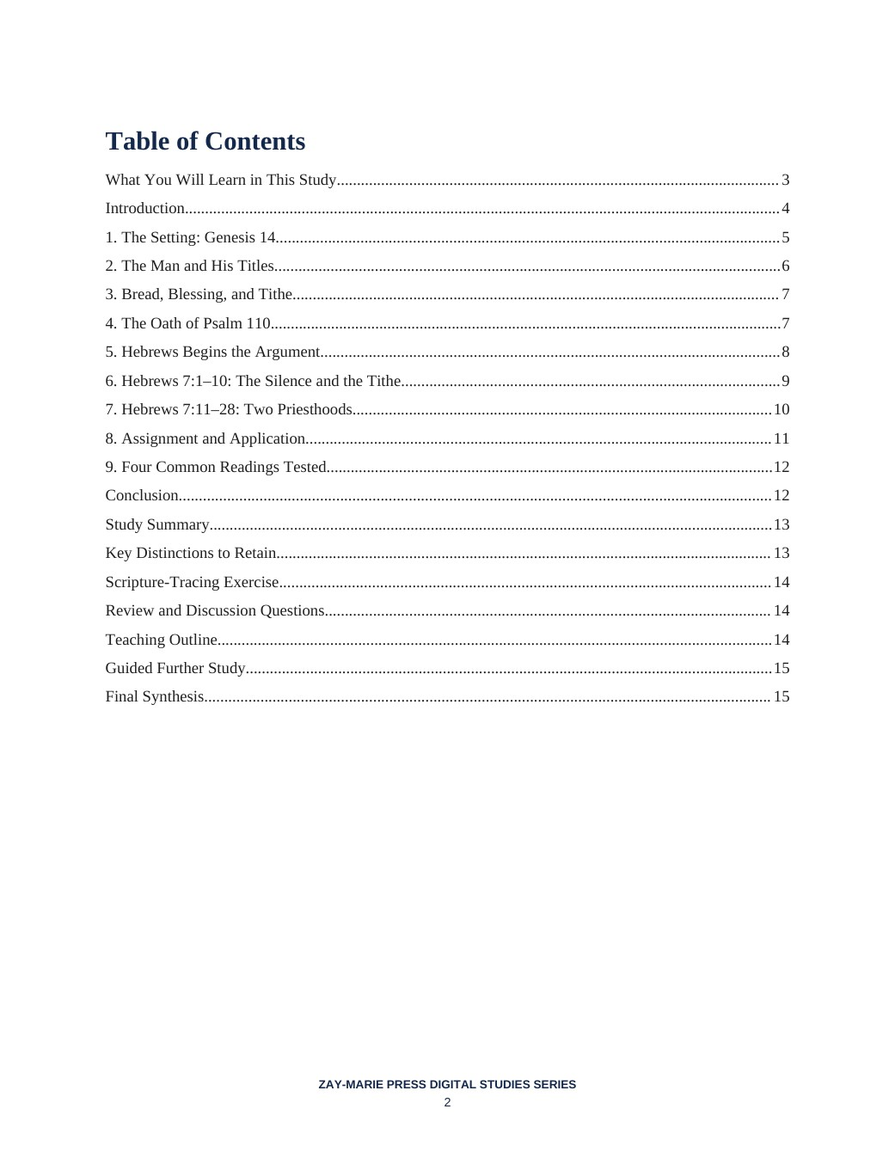
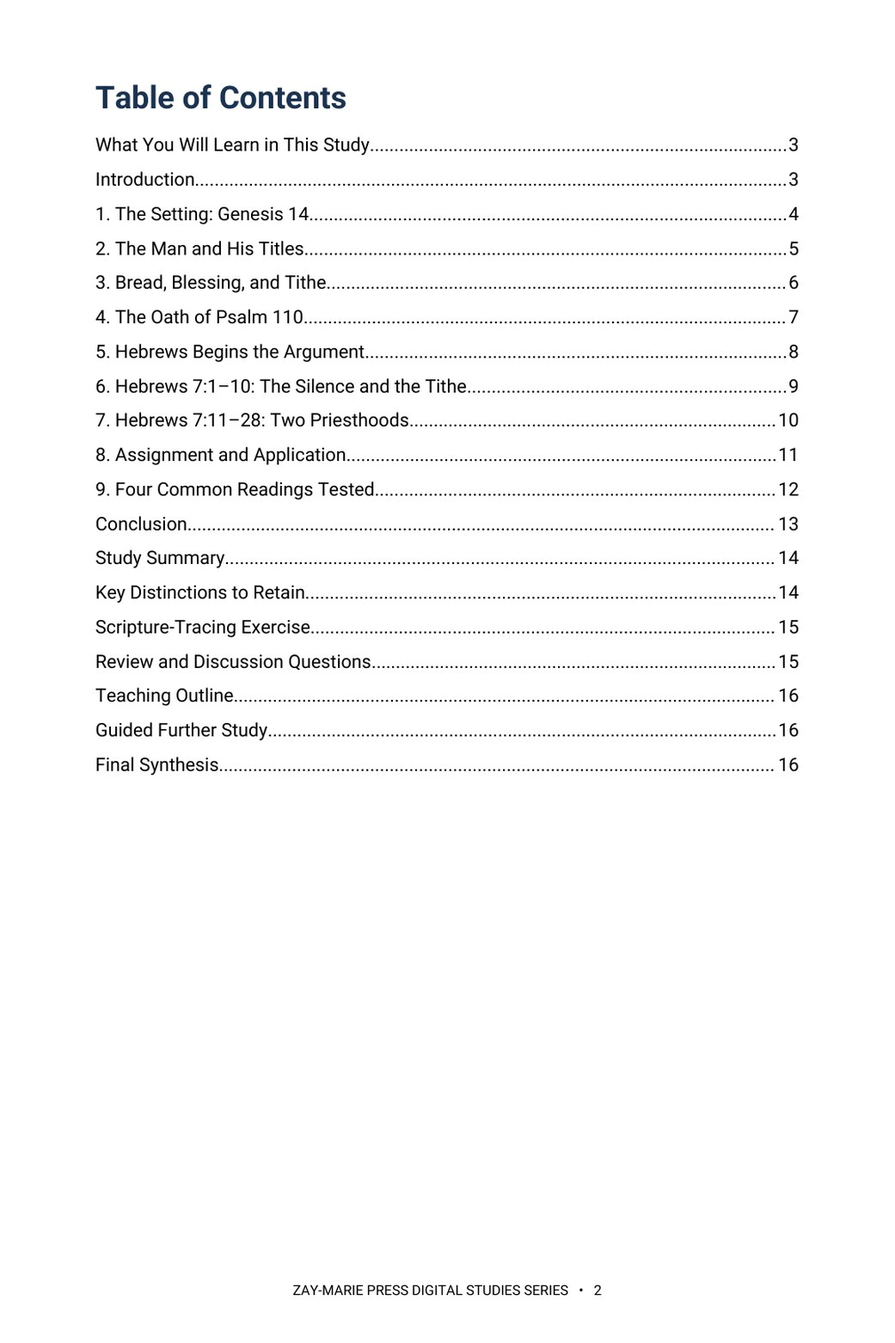
Study 67: rebuilt in Roboto at 10 pt, 17 pages; previews and trackers updated
Claude-Session: https://claude.ai/code/session_01HC7bs9KYP2scp4hCL6DkTp

diff --git a/study-67-melchizedek.html b/study-67-melchizedek.html
@@ -1,13 +1,13 @@
 <!doctype html>
-<html lang="en"><head><meta charset="utf-8"><meta name="viewport" content="width=device-width,initial-scale=1"><title>Melchizedek | Zay-Marie Press</title><meta name="description" content="Study 67 examines Melchizedek in Genesis 14, Psalm 110, and Hebrews 5–7 — who he is in the text, what Hebrews argues from his priesthood, and to whom that argument speaks. Preview the 16-page digital study."><link rel="stylesheet" href="styles.css?v=20260921-4"><link rel="icon" type="image/png" href="assets/zay-marie-press-favicon.png"><style>
+<html lang="en"><head><meta charset="utf-8"><meta name="viewport" content="width=device-width,initial-scale=1"><title>Melchizedek | Zay-Marie Press</title><meta name="description" content="Study 67 examines Melchizedek in Genesis 14, Psalm 110, and Hebrews 5–7 — who he is in the text, what Hebrews argues from his priesthood, and to whom that argument speaks. Preview the 17-page digital study."><link rel="stylesheet" href="styles.css?v=20260921-4"><link rel="icon" type="image/png" href="assets/zay-marie-press-favicon.png"><style>
 .study-detail-page{background:#fff;color:#252525}.detail-hero{background:linear-gradient(135deg,#f8f5ec,#e3ece2);padding:58px 0}.detail-hero-grid{display:grid;grid-template-columns:minmax(250px,.72fr) minmax(0,1.28fr);gap:58px;align-items:center}.detail-cover{max-width:390px;margin:auto}.detail-cover img{display:block;width:100%;height:auto;box-shadow:0 14px 36px rgba(8,45,69,.18)}.detail-hero h1{font-size:clamp(2.7rem,5vw,4.7rem);line-height:1.02;margin:8px 0 10px;color:#143823}.detail-subtitle{font-family:Georgia,serif;font-size:1.35rem;font-weight:700;color:#082d45;margin:0 0 7px}.detail-kicker{font-family:Georgia,serif;font-style:italic;font-size:1.05rem;color:#4a4a44;margin:0 0 22px}.detail-copy{font-size:1.08rem;line-height:1.65;max-width:760px}.detail-buyline{display:flex;align-items:center;gap:18px;flex-wrap:wrap;margin-top:25px}.detail-price{font-family:Georgia,serif;font-size:2rem;font-weight:700;color:#143823}.detail-format,.preview-card .page-no{font-family:Arial,sans-serif;font-size:.76rem;font-weight:700;letter-spacing:.1em;text-transform:uppercase;color:#176b3a}.detail-button{display:inline-block;background:#176b3a;color:#fff;padding:13px 22px;font-family:Arial,sans-serif;font-size:.8rem;font-weight:700;letter-spacing:.07em;text-transform:uppercase}.detail-button.pending{opacity:.72;cursor:default}.detail-section{padding:66px 0}.detail-section.soft{background:#f6f7f2}.detail-section.cream{background:#faf8f2}.detail-section h2{color:#143823;margin:6px 0 18px;font-size:clamp(2rem,3.4vw,3rem)}.detail-section .lead{max-width:920px;font-size:1.1rem;line-height:1.62}.study-distinction{max-width:920px;margin-top:28px;margin-bottom:28px;padding:26px 28px;background:#fff;border:1px solid #d8d1bf;border-left:4px solid #b8871c}.study-distinction h3{margin:0 0 10px;color:#143823}.study-distinction p{margin:0 0 14px;line-height:1.62}.study-distinction a{font-family:Arial,sans-serif;font-weight:700;color:#176b3a;text-decoration:none}.study-points{display:grid;grid-template-columns:repeat(3,1fr);gap:18px;margin-top:28px;margin-bottom:28px}.study-point,.scripture-card,.preview-card,.include-item{background:#fff;border:1px solid var(--line);text-align:left}.study-point{border-top:3px solid #176b3a;padding:22px}.study-point h3{color:#143823;margin:0 0 8px;font-size:1.2rem}.study-point p,.scripture-card p,.preview-card p,.include-item p{margin:0;line-height:1.55}.scripture-grid{display:grid;grid-template-columns:repeat(4,1fr);gap:14px;margin-top:24px;margin-bottom:24px}.scripture-card{padding:22px 20px;color:#143823}.scripture-card h3{margin:0 0 9px;font-family:Georgia,serif;font-size:1rem;line-height:1.35}.scripture-card p{font-size:.94rem;color:#45453f}.excerpt{max-width:900px;margin:28px auto;border-left:4px solid #b8871c;padding:10px 0 10px 28px}.excerpt blockquote{font-family:Georgia,serif;font-size:clamp(1.45rem,2.5vw,2rem);line-height:1.45;color:#143823;margin:0 0 16px}.excerpt p{line-height:1.6;margin:0}.preview-grid{display:grid;grid-template-columns:repeat(2,1fr);gap:20px;margin-top:28px;margin-bottom:28px}.preview-card{padding:18px;min-height:210px;box-shadow:0 7px 20px rgba(20,40,25,.05)}.preview-image-link{display:block;margin:0 0 18px}.preview-image-link img{display:block;width:100%;height:auto;border:1px solid #d8d1bf;box-shadow:0 8px 22px rgba(20,40,25,.1);transition:transform .18s ease,box-shadow .18s ease}.preview-image-link:hover img{transform:translateY(-2px);box-shadow:0 11px 28px rgba(20,40,25,.16)}.preview-card h3{color:#143823;margin:8px 0 10px}.preview-instruction{margin:10px 0 0;font-family:Arial,sans-serif;font-size:.78rem;letter-spacing:.04em;color:#5b5b55}.includes-grid{display:grid;grid-template-columns:repeat(4,1fr);gap:14px;margin-top:26px}.include-item{padding:22px 20px;color:#143823}.include-item h3{margin:0 0 9px;font-family:Arial,sans-serif;font-size:.86rem;line-height:1.35;letter-spacing:.02em}.include-item p{font-size:.94rem;color:#45453f}.final-buy{background:#082d45;color:#fff;border-top:4px solid #b8871c;padding:42px 48px;display:grid;grid-template-columns:1fr auto;gap:36px;align-items:center}.final-buy .eyebrow,.final-buy h2,.final-buy .detail-price{color:#fff}.final-buy h2{margin:7px 0 6px}.final-buy p{margin:0}.final-offer{text-align:center}.back-link{display:inline-block;margin-top:18px;color:#143823;font-family:Arial,sans-serif;font-weight:700;text-decoration:none}.preview-lightbox{position:fixed;inset:0;z-index:10000;display:none;align-items:flex-start;justify-content:center;background:rgba(8,22,16,.88);padding:24px;overflow:auto}.preview-lightbox.open{display:flex}.preview-lightbox img{display:block;width:auto;height:auto;max-width:none;box-shadow:0 18px 55px rgba(0,0,0,.4);background:#fff}.preview-lightbox-close{position:fixed;top:18px;right:24px;z-index:10001;width:46px;height:46px;border:1px solid rgba(255,255,255,.65);border-radius:50%;background:rgba(0,0,0,.55);color:#fff;font:32px/1 Arial,sans-serif;cursor:pointer}@media(max-width:900px){.detail-hero-grid{grid-template-columns:1fr;gap:34px}.detail-cover{max-width:330px}.study-points{grid-template-columns:repeat(2,1fr)}.scripture-grid,.includes-grid{grid-template-columns:repeat(2,1fr)}.preview-grid,.final-buy{grid-template-columns:1fr}.final-offer{text-align:left}}@media(max-width:560px){.detail-hero{padding:42px 0}.detail-section{padding:50px 0}.study-points,.scripture-grid,.includes-grid{grid-template-columns:1fr}.final-buy{padding:32px 24px}.detail-buyline{align-items:flex-start;flex-direction:column;gap:8px}.preview-lightbox{padding:58px 10px 24px}.preview-lightbox img{width:100%;max-width:100%;height:auto}} .detail-hero h1{font-size:clamp(2.1rem,4.2vw,3.7rem);line-height:1.08}</style></head><body class="study-detail-page">
-<header class="site-header"><div class="wrap nav"><a class="logo" href="index.html" aria-label="Zay-Marie Press home"><img src="assets/zay-marie-press-logo-hq.png" alt="Zay-Marie Press" width="420" height="238"></a><button class="menu-toggle" type="button" aria-expanded="false" aria-controls="primary-nav">MENU</button><nav aria-label="Primary navigation" class="primary-nav" id="primary-nav"><a href="index.html">HOME</a><a href="books.html">BOOKS</a><a href="series.html">SERIES</a><a class="active" aria-current="page" href="digital-studies.html">DIGITAL STUDIES</a><a href="biblical-hermeneutics-course.html">COURSE</a><a href="about.html">ABOUT</a><a href="resources.html">RESOURCES</a><a href="contact.html">CONTACT</a></nav></div></header><main><section class="detail-hero"><div class="wrap detail-hero-grid"><div class="detail-cover"><picture><source srcset="assets/study-67-cover.webp" type="image/webp"><img src="assets/study-67-cover.jpg" alt="Melchizedek cover"></picture></div><div><div class="eyebrow">STUDY 67 · DIGITAL STUDY</div><h1>Melchizedek</h1><p class="detail-subtitle">The King-Priest of Salem</p><p class="detail-kicker">Who is Melchizedek in the three passages that name him — and to whom does the priesthood argument of Hebrews speak?</p><p class="detail-copy">Melchizedek is named in only three places in Scripture, yet he has drawn more speculation than almost any figure of comparable length. The way through is to read what each passage says, in order, before deciding what any of it means.</p><p class="detail-copy">This study begins in Genesis 14, with a battle, two kings, and a meeting in the valley of Shaveh. It follows the oath of Psalm 110, then reads Hebrews 5–7 step by step, testing each inference against the passage it reads, and only then asks to whom the argument is addressed, holding to one order throughout: meaning first, assignment second, application third.</p><div class="detail-buyline"><span class="detail-price">$5.99</span><span class="detail-format">Digital PDF · 16 Pages</span><span class="detail-button pending" aria-disabled="true">Checkout Coming Soon</span></div></div></div></section>
+<header class="site-header"><div class="wrap nav"><a class="logo" href="index.html" aria-label="Zay-Marie Press home"><img src="assets/zay-marie-press-logo-hq.png" alt="Zay-Marie Press" width="420" height="238"></a><button class="menu-toggle" type="button" aria-expanded="false" aria-controls="primary-nav">MENU</button><nav aria-label="Primary navigation" class="primary-nav" id="primary-nav"><a href="index.html">HOME</a><a href="books.html">BOOKS</a><a href="series.html">SERIES</a><a class="active" aria-current="page" href="digital-studies.html">DIGITAL STUDIES</a><a href="biblical-hermeneutics-course.html">COURSE</a><a href="about.html">ABOUT</a><a href="resources.html">RESOURCES</a><a href="contact.html">CONTACT</a></nav></div></header><main><section class="detail-hero"><div class="wrap detail-hero-grid"><div class="detail-cover"><picture><source srcset="assets/study-67-cover.webp" type="image/webp"><img src="assets/study-67-cover.jpg" alt="Melchizedek cover"></picture></div><div><div class="eyebrow">STUDY 67 · DIGITAL STUDY</div><h1>Melchizedek</h1><p class="detail-subtitle">The King-Priest of Salem</p><p class="detail-kicker">Who is Melchizedek in the three passages that name him — and to whom does the priesthood argument of Hebrews speak?</p><p class="detail-copy">Melchizedek is named in only three places in Scripture, yet he has drawn more speculation than almost any figure of comparable length. The way through is to read what each passage says, in order, before deciding what any of it means.</p><p class="detail-copy">This study begins in Genesis 14, with a battle, two kings, and a meeting in the valley of Shaveh. It follows the oath of Psalm 110, then reads Hebrews 5–7 step by step, testing each inference against the passage it reads, and only then asks to whom the argument is addressed, holding to one order throughout: meaning first, assignment second, application third.</p><div class="detail-buyline"><span class="detail-price">$5.99</span><span class="detail-format">Digital PDF · 17 Pages</span><span class="detail-button pending" aria-disabled="true">Checkout Coming Soon</span></div></div></div></section>
 <section class="detail-section"><div class="wrap"><div class="eyebrow">ABOUT THIS STUDY</div><h2>Read the Passages in Order: Meaning, Assignment, Application</h2><p class="lead">You will read Genesis 14 in its own setting: after a war and a rescue, with two kings coming out to meet Abram. You will follow the titles, the bread and wine, the blessing, and the tithe as the text gives them, trace the oath of Psalm 110, and then follow the argument of Hebrews 5–7 inference by inference before drawing any application.</p><p class="lead">Readers who already own Study 28 (The Warning of Hebrews 6:4–6), Study 17 (The Abrahamic Covenant), or Study 12 (The New Covenant) will recognize adjoining ground. Study 28 reads the warning of Hebrews 6 in its argument; this study touches Hebrews 6 only where the oath and the forerunner (6:13–20) lead to Melchizedek. Study 17 establishes the covenant promises made to Abraham; this study treats Genesis 14 only for what it says about the king of Salem. Study 12 examines Israel’s promised restoration under Messiah; this study notes the change of priesthood and law in Hebrews 7 without re-deriving the covenant. The question this study alone answers: who is Melchizedek in the three passages that name him, what does Hebrews make of his priesthood, and to whom does that argument speak?</p>
 <div class="study-distinction"><h3>How These Studies Relate</h3><p>Study 67 reads one figure across three passages. The studies below supply the neighboring ground it deliberately does not repeat.</p><p><a href="study-28-the-warning-of-hebrews-6-4-6.html">Study 28 — The Warning of Hebrews 6:4–6</a> Read Hebrews 6’s warning in its own argument; Study 67 touches Hebrews 6 only where the oath and the forerunner lead to Melchizedek.</p><p><a href="study-17-the-abrahamic-covenant.html">Study 17 — The Abrahamic Covenant</a> Establish the covenant promises made to Abraham; Study 67 treats Genesis 14 only for what it says about the king of Salem.</p><p><a href="study-12-the-new-covenant.html">Study 12 — The New Covenant</a> Examine Israel’s promised restoration under Messiah; Study 67 notes the change of priesthood and law without re-deriving the covenant.</p><p class="connection-guide-link"><a href="study-connections.html#study-67">Explore the full connection guide for Study 67 →</a></p></div>
 <div class="eyebrow">WHAT YOU’LL STUDY</div><h2>Trace the Passages Before You Conclude</h2><div class="study-points"><div class="study-point"><h3>The Genesis 14 Setting</h3><p>Read Genesis 14 in its own setting by tracing the war of the kings, the two kings who meet Abram, and Abram’s answer to each before interpreting a single title of the king of Salem.</p></div><div class="study-point"><h3>Titles and the Divine Name</h3><p>Weigh the titles “king of Salem” and “priest of the most high God” by following the divine name and the blessing formula through Genesis 14:18–22 and into Psalm 76:2.</p></div><div class="study-point"><h3>Bread, Blessing, and Tithe</h3><p>Follow the tithe, the blessing, and the bread and wine as the text describes them, noting what Genesis states and what it leaves unsaid.</p></div><div class="study-point"><h3>The Oath of Psalm 110</h3><p>Trace the wording of Psalm 110:1–4, including the oath of verse 4, and note whom David calls “my Lord.”</p></div><div class="study-point"><h3>The Argument of Hebrews</h3><p>Follow the argument of Hebrews 5:1–10, 6:13–20, and 7:1–28 step by step, testing each inference against the Genesis text it reads.</p></div><div class="study-point"><h3>Testing Four Readings</h3><p>Apply a repeatable discipline for testing four common readings of Melchizedek, and for receiving the priesthood argument of Hebrews without transferring its assignment.</p></div></div>
 <div class="eyebrow">KEY SCRIPTURES</div><h2>Read the Word in Its Context</h2><div class="scripture-grid"><div class="scripture-card"><h3>Genesis 14:17–24</h3><p>Two kings meet Abram after the rescue, and Abram answers each.</p></div><div class="scripture-card"><h3>Psalm 110:1–7</h3><p>The Lord at God’s right hand, the king in Zion, and the sworn priesthood.</p></div><div class="scripture-card"><h3>Hebrews 5:1–10</h3><p>A priest defined, and the words of Psalm 110 applied to Christ.</p></div><div class="scripture-card"><h3>Hebrews 6:13–20</h3><p>The oath to Abraham, the anchor of the soul, and the forerunner.</p></div><div class="scripture-card"><h3>Hebrews 7:1–10</h3><p>The retelling of Genesis 14 and the argument from the tithe.</p></div><div class="scripture-card"><h3>Hebrews 7:11–28</h3><p>Two priesthoods, the change of law, and the oath.</p></div><div class="scripture-card"><h3>2 Chronicles 26:16–21</h3><p>Why Uzziah was struck when he went into the temple to burn incense.</p></div><div class="scripture-card"><h3>Zechariah 6:12–13</h3><p>The Branch who builds the temple and is a priest upon his throne.</p></div></div>
 <div class="eyebrow">FROM THE STUDY</div><h2>Stated, Not Supplied</h2><div class="excerpt"><blockquote>Genesis states what Melchizedek did and what Abram did in return.</blockquote><p>It supplies no reason for the bread and wine, no terms for the blessing, and no commandment for the tithe, and what it leaves unsaid is not filled in from later practice.</p></div>
 <div class="eyebrow">A LOOK INSIDE</div><h2>Preview the Study Before You Purchase</h2><p class="preview-instruction">Click any page to enlarge it for reading.</p><div class="preview-grid"><div class="preview-card"><a class="preview-image-link" data-preview-lightbox href="assets/study-67-page-2.jpg"><img src="assets/study-67-page-2.jpg" alt="Study 67 table of contents"></a><div class="page-no">Interior Page 2</div><h3>Table of Contents</h3><p>See the full structure and the passages examined.</p></div><div class="preview-card"><a class="preview-image-link" data-preview-lightbox href="assets/study-67-page-3.jpg"><img src="assets/study-67-page-3.jpg" alt="Study 67 learning outcomes"></a><div class="page-no">Interior Page 3</div><h3>What You Will Learn</h3><p>See the study’s scope and reading procedure.</p></div><div class="preview-card"><a class="preview-image-link" data-preview-lightbox href="assets/study-67-page-5.jpg"><img src="assets/study-67-page-5.jpg" alt="Study 67 the setting of Genesis 14"></a><div class="page-no">Interior Page 5</div><h3>The Setting: Genesis 14</h3><p>Read the war, the rescue, and the two kings before any title is interpreted.</p></div></div>
-<div class="eyebrow">WHAT’S INCLUDED</div><h2>A Focused Study of Melchizedek</h2><div class="includes-grid"><div class="include-item"><h3>16-Page Digital PDF</h3><p>Approved cover and 15-page numbered interior.</p></div><div class="include-item"><h3>9 Teaching Sections</h3><p>A text-driven study from Genesis 14 to careful application.</p></div><div class="include-item"><h3>Callout Boxes</h3><p>Eight callout boxes marking the study’s key working rules.</p></div><div class="include-item"><h3>Comparison Tables</h3><p>Setting markers, names and titles, the letter’s readers, the two priesthoods, and four common readings.</p></div><div class="include-item"><h3>Scripture-Tracing Exercise</h3><p>Six guided traces through the passages the study relies on.</p></div><div class="include-item"><h3>Guided Further Study</h3><p>Five passage groups for deeper reading.</p></div><div class="include-item"><h3>Review Questions</h3><p>Eleven questions testing the study’s markers and method.</p></div><div class="include-item"><h3>Final Synthesis Exercise</h3><p>A written synthesis drawing the whole study together.</p></div></div>
-<div class="final-buy"><div><div class="eyebrow">STUDY 67 · DIGITAL STUDY</div><h2>Melchizedek</h2><p>16-page digital PDF · For personal use</p></div><div class="final-offer"><div class="detail-price">$5.99</div><span class="detail-button pending" aria-disabled="true">Checkout Coming Soon</span></div></div><a class="back-link" href="digital-studies.html">← Back to All Digital Studies</a></div></section>
+<div class="eyebrow">WHAT’S INCLUDED</div><h2>A Focused Study of Melchizedek</h2><div class="includes-grid"><div class="include-item"><h3>17-Page Digital PDF</h3><p>Approved cover and 16-page numbered interior.</p></div><div class="include-item"><h3>9 Teaching Sections</h3><p>A text-driven study from Genesis 14 to careful application.</p></div><div class="include-item"><h3>Callout Boxes</h3><p>Eight callout boxes marking the study’s key working rules.</p></div><div class="include-item"><h3>Comparison Tables</h3><p>Setting markers, names and titles, the letter’s readers, the two priesthoods, and four common readings.</p></div><div class="include-item"><h3>Scripture-Tracing Exercise</h3><p>Six guided traces through the passages the study relies on.</p></div><div class="include-item"><h3>Guided Further Study</h3><p>Five passage groups for deeper reading.</p></div><div class="include-item"><h3>Review Questions</h3><p>Eleven questions testing the study’s markers and method.</p></div><div class="include-item"><h3>Final Synthesis Exercise</h3><p>A written synthesis drawing the whole study together.</p></div></div>
+<div class="final-buy"><div><div class="eyebrow">STUDY 67 · DIGITAL STUDY</div><h2>Melchizedek</h2><p>17-page digital PDF · For personal use</p></div><div class="final-offer"><div class="detail-price">$5.99</div><span class="detail-button pending" aria-disabled="true">Checkout Coming Soon</span></div></div><a class="back-link" href="digital-studies.html">← Back to All Digital Studies</a></div></section>
 </main><div class="preview-lightbox" id="preview-lightbox" role="dialog" aria-modal="true" aria-label="Expanded study preview"><button class="preview-lightbox-close" type="button" aria-label="Close preview">×</button><img id="preview-lightbox-image" alt=""></div><footer class="site-footer"><div class="wrap footer-grid"><div class="footer-about"><h3>Zay-Marie Press</h3><p class="footer-tagline"><em>Where the Bible Means What It Says.</em></p><p>Zay-Marie Press is a Christian theological publisher dedicated to producing doctrinally precise, carefully structured biblical resources that equip pastors, teachers, and serious students with clarity, depth, and Scripture-anchored truth.</p><p><a href="https://zaymariepress.com">zaymariepress.com</a><br><a href="mailto:info@zaymariepress.com">info@zaymariepress.com</a></p></div><div class="footer-column"><h3>Explore</h3><div class="footer-links-stacked"><a href="books.html">Books</a><br><a href="series.html">Series</a><br><a href="biblical-hermeneutics-course.html">Course</a><br><a href="digital-studies.html">Digital Studies</a><br><a href="resources.html">Resources</a><br><a href="bible-book-summaries.html">Bible Book Summaries</a><br><a href="doctrinal-packets.html">Doctrinal Packets</a><br><a href="historical-drift.html">Historical Drift</a><br><a href="about.html">About</a><br><a href="contact.html">Contact</a></div></div><div class="footer-column"><h3>Reader Support</h3><div class="footer-links-stacked"><a href="reader-support.html#faq">FAQ</a><br><a href="reader-support.html#shipping-returns">Shipping &amp; Returns</a><br><a href="reader-support.html#digital-downloads">Digital Downloads</a><br><a href="reader-support.html#contact-support">Contact Support</a></div></div><div class="footer-column"><h3>Acts Overlap</h3><p><strong>Acts Overlap Theology Series</strong></p><p><em>Two Distinct Streams. One Overlap.</em></p><p><a href="series.html">Series Overview</a></p></div></div><div class="wrap footer-bottom">© 2026 Zay-Marie Press. All rights reserved.</div></footer><script src="site.js"></script><script>const lightbox=document.getElementById('preview-lightbox'),lightboxImage=document.getElementById('preview-lightbox-image'),closeLightbox=()=>{lightbox.classList.remove('open');lightboxImage.src='';};document.querySelectorAll('[data-preview-lightbox]').forEach(link=>link.addEventListener('click',event=>{event.preventDefault();lightboxImage.src=link.href;lightboxImage.alt=link.querySelector('img').alt;lightbox.classList.add('open');}));document.querySelector('.preview-lightbox-close').addEventListener('click',closeLightbox);lightbox.addEventListener('click',event=>{if(event.target===lightbox)closeLightbox();});document.addEventListener('keydown',event=>{if(event.key==='Escape')closeLightbox();});</script></body></html>

diff --git a/site.js b/site.js
@@ -62,7 +62,7 @@ const resourceModal=document.querySelector('#resource-modal'), resourceModalTitl
 if(resourceModal&&resourceModalTriggers.length){const closeResourceModal=()=>{resourceModal.hidden=true;document.body.classList.remove('resource-modal-open');lastResourceTrigger?.focus();};resourceModalTriggers.forEach(trigger=>trigger.addEventListener('click',()=>{lastResourceTrigger=trigger;if(resourceModalTitle)resourceModalTitle.textContent=trigger.dataset.title||'Resource';if(resourceModalDescription)resourceModalDescription.textContent=trigger.dataset.description||'';if(resourceModalLink){resourceModalLink.href=trigger.dataset.href||'#';resourceModalLink.textContent=trigger.dataset.linkText||'OPEN RESOURCE';}resourceModal.hidden=false;document.body.classList.add('resource-modal-open');resourceModalClose?.focus();}));resourceModalClose?.addEventListener('click',closeResourceModal);resourceModal.addEventListener('click',e=>{if(e.target===resourceModal)closeResourceModal();});document.addEventListener('keydown',e=>{if(e.key==='Escape'&&!resourceModal.hidden)closeResourceModal();});}
 
 /* Display the verified final-PDF page count at the primary purchase decision point. */
-const digitalStudyPageCounts={1:17,2:19,3:16,4:18,5:16,6:16,7:14,8:13,9:16,10:20,11:15,12:15,13:19,14:15,15:15,16:16,17:18,18:18,19:16,20:16,21:17,22:16,23:14,24:16,25:17,26:16,27:16,28:16,29:19,30:17,31:18,32:19,33:18,34:16,35:16,36:16,37:16,38:16,39:16,40:16,41:16,42:17,43:17,44:19,45:19,46:20,47:19,48:18,49:20,50:19,51:20,52:19,53:19,54:17,55:20,56:20,57:20,58:19,59:20,60:15,61:16,62:18,63:17,64:17,65:16,66:16,67:16,68:16,69:16,70:16,71:16};
+const digitalStudyPageCounts={1:17,2:19,3:16,4:18,5:16,6:16,7:14,8:13,9:16,10:20,11:15,12:15,13:19,14:15,15:15,16:16,17:18,18:18,19:16,20:16,21:17,22:16,23:14,24:16,25:17,26:16,27:16,28:16,29:19,30:17,31:18,32:19,33:18,34:16,35:16,36:16,37:16,38:16,39:16,40:16,41:16,42:17,43:17,44:19,45:19,46:20,47:19,48:18,49:20,50:19,51:20,52:19,53:19,54:17,55:20,56:20,57:20,58:19,59:20,60:15,61:16,62:18,63:17,64:17,65:16,66:16,67:17,68:16,69:16,70:16,71:16};
 const digitalStudyMatch=window.location.pathname.match(/\/study-(\d+)-/i);
 const digitalStudyFormat=document.querySelector('.detail-hero .detail-format');
 if(digitalStudyMatch&&digitalStudyFormat){const studyNumber=Number(digitalStudyMatch[1]),pageCount=digitalStudyPageCounts[studyNumber];if(pageCount)digitalStudyFormat.textContent=`Digital PDF · ${pageCount} Pages`;}

diff --git a/CLAUDE.md b/CLAUDE.md
@@ -23,7 +23,7 @@ These are kept in the repo at `controlling-documents/` and are the current versi
 - As of v1.50 (publisher directive, 2026-10-03), the **What You Will Learn in This Study** section is always bulleted, never set as running paragraphs, written into this file in the same pass (Master Standard Section 3 item 4, Section 6 structure line, Section 22): a list of bullet points, each describing one process, textual marker or interpretive discipline the reader will practice (Section 17 still governs what they may say); at most one short lead-in line may stand above the bullets (for example, “By the end of this study, you should be able to:”); the Study Goal callout and the Study Outline keep their own forms. It governs every new study and every study rebuilt or retrofitted from now on; earlier studies take it when reopened or when the publisher directs. In every study check (Step 1), report whether the section is bulleted. First applied to Study 43.
 **`controlling-documents/Digital_Studies_Relationship_Map_v1.39.md`** — records each study's distinct subject, its related studies, the eight priced six-study collections, the Paul's Missionary Journeys cross-reference map, and the five primary catalog categories (currently version 1.39, covers Studies 1–71; update it as new studies publish, bump the version number, rename the file to match, and log the change in its own version-history table — mirroring the Master Standard's `_vX.Y` filename convention). Check a proposed topic against it before recommending or writing a new study. (2026-09-28: the file was missing from this repo despite this note referencing it; replaced from the publisher's copy and bumped v1.15→v1.25 in the same pass. If this note ever again points to a version not present under `controlling-documents/`, ask the publisher for a copy rather than proceeding without the check.)
 - **`controlling-documents/Digital_Studies_Category_Standard_v1.1.md`** — FINAL and binding (publisher, 2026-10-01): the rules for the five primary catalog categories (Foundations, Israel & Prophecy, Body of Christ, Passages, Doctrinal Themes), the ordered decision procedure for new studies, the precedents, all 71 fixed assignments, and the cover-label form for each category. Read it before placing any card or cover label. Do not ask the publisher where a study belongs; apply the procedure and state the result. Only the publisher changes a ruling; then bump this Standard's version and filename, re-letter the cover, and update the Relationship Map.
-- **`controlling-documents/Doctrinal_Upgrade_Retrofit_Plan_v1.89.md`** — working tracker for retrofitting Studies 1–59 to the 2026-10-02 doctrinal upgrade (Framework/PAM v1.1, Master Standard v1.40, Rules 7–17): withdrawn-wording search keys, impact tiers, waves and the per-study method. Read it before continuing the retrofit in any session; update status, bump the version and rename the file as work proceeds.
+- **`controlling-documents/Doctrinal_Upgrade_Retrofit_Plan_v1.90.md`** — working tracker for retrofitting Studies 1–59 to the 2026-10-02 doctrinal upgrade (Framework/PAM v1.1, Master Standard v1.40, Rules 7–17): withdrawn-wording search keys, impact tiers, waves and the per-study method. Read it before continuing the retrofit in any session; update status, bump the version and rename the file as work proceeds.
 - **`controlling-documents/Doctrinal_Packet_Standard_v0.3.md`** — Doctrinal Packet Standard (DRAFT; §7 approved). Governs the separate Doctrinal Packets product strand (5-page interpretive PDFs per Bible book — a print-friendly cover as page 1 plus 4 content pages, $2.99, KJV, pilot: Genesis, live at `packet-genesis.html`, hub `doctrinal-packets.html`; site pages say "5 Pages", cover styles live in `packets.css`, Old Testament blue and New Testament soft pale green, hub listed in Bible order). **Preview rule (publisher directive, 2026-09-29, packets only):** previews show about one page's worth in two cropped views (top of page 1 through the anchor texts; the chart section) — never the exegesis, architecture, Mystery contrast, logic chain, outline, or closing. Master Standard §16/§17 still govern Digital Studies. Bump the version and rename the file as the Standard is finalized.
 - **`controlling-documents/Preview_Page_Spoiler_Retrofit_Audit_v1.4.md`** — working tracker for the Studies 1–60 preview-page conclusion-spoiler retrofit (see the section below). Read it before continuing that audit in any session; update its status fields and changelog, bump the version, and rename the file to match as the audit proceeds — same `_vX.Y` convention as the other controlling documents. As of v1.1, the website-side half was DONE: all 60 studies' "What You'll Study" text was judged against the rule (methodology documented in the file) and 22 points across 11 studies were rewritten and pushed; an unrelated Study 22 content bug (Study 21's content had leaked into it) was also found and fixed. As of v1.2, the publisher supplied Studies 1–60's interior production PDFs and the interior-PDF half was also surveyed (read-only): 10 studies (37, 41, 45, 47, 48, 49, 51, 52, 53, 54) were found to have at least one interior "What You Will Learn" violation, 50 studies were confirmed compliant, and the orphaned `assets/study-45-sanctification-under-grace.docx` (removed from the repo per the publisher in v1.0) was confirmed word-for-word identical to Study 45's actual production interior PDF content. As of v1.3, the publisher supplied editable DOCX sources for all 10 violating studies; all 15 violating points were rewritten and approved, delivered as corrected final PDFs, and — along the way — a second defect was found and fixed (Studies 47 and 48's source DOCX still had an unintegrated cover placeholder despite both being long-published live with real covers; fixed by inserting the existing approved cover art). The website's "What You Will Learn" preview image (`study-NN-page-3.jpg`) was regenerated from the corrected content for all 10 studies and pushed to `main` (commit `cea1859`), verified against a fresh clone. **The website side of this audit is now fully compliant for all 60 studies.** Outstanding: the publisher's purchasable interior PDF files themselves have corrected versions delivered, but distribution to existing purchasers was decided by the publisher on 2026-09-29: silent swap of the files behind the existing downloads, no reissue notice (recorded in the v1.4 changelog entry; the product files are not in this repo).
 

diff --git a/controlling-documents/Doctrinal_Upgrade_Retrofit_Plan_v1.90.md b/controlling-documents/Doctrinal_Upgrade_Retrofit_Plan_v1.90.md
@@ -182,3 +182,4 @@ Working tracker for correcting published studies to the Framework/PAM v1.1, Mast
 - v1.87 (2026-10-03): Study 65 rebuilt in Roboto at 10 pt on the current page from the publisher's PDF (no DOCX or approved FINAL supplied; text taken from the PDF word for word), 17 pages (cover plus 16; was 16). Changes: What You Will Learn set as bullets under one lead-in (closing paragraph removed; bullet 6 reworded to a process line); eight callouts reduced to five (Setting Before Verse, The Word in Its Company and The Four in Their Place became run-in paragraphs, wording unchanged); Teaching Outline numerals changed to 1–8; split Four Common Readings table merged; reader-facing wording: the 7.1 "framework of this series" sentence and "controlling framework" replaced. No withdrawn doctrinal wording found. Previews 2, 3 and 5 re-rendered; site.js and page text updated.
 - v1.88 (2026-10-03): Study 65 correction. The v1.87 build was set in the wrong typeface by a fontconfig fault; rebuilt in Roboto (pdffonts confirms Roboto Regular, Bold and Italic only). Page count is 16 (cover plus 15), not 17; site.js, page text and previews 2, 3 and 5 updated. Content edits as logged in v1.87 are unchanged. Every later build is checked with pdffonts.
 - v1.89 (2026-10-03): Study 66 rebuilt in Roboto at 10 pt on the current page from the publisher's PDF (no DOCX or approved FINAL supplied; text taken from the PDF word for word), 16 pages (cover plus 15; unchanged). Changes: What You Will Learn set as bullets under one lead-in (closing paragraph removed; bullet 7 reworded to a process line); nine callouts reduced to five (Setting Before Command, Authority Before Assignment, One Command and The Age Matthew Names became run-in paragraphs, wording unchanged); Teaching Outline numerals changed to 1–8; split end-of-the-age table merged; reader-facing wording: "framework of this series" (6.3, 7.1), "the framework's treatment of Acts 28" and "controlling framework" replaced. No withdrawn doctrinal wording found. pdffonts confirms Roboto only. Previews 2, 3 and 5 re-rendered.
+- v1.90 (2026-10-03): Study 67 rebuilt in Roboto at 10 pt on the current page from the publisher's PDF (no DOCX or approved FINAL supplied; text taken from the PDF word for word), 17 pages (cover plus 16; was 16). Changes: What You Will Learn set as bullets under one lead-in (closing paragraph removed; bullet 7 reworded to a process line); nine callouts reduced to five (Setting Before Title, Two Titles One Office, Stated Not Supplied and The Readers First became run-in paragraphs, wording unchanged); Teaching Outline numerals changed to 1–8; two split tables merged; reader-facing wording: "This fits the framework of this series" replaced by the Hebrews reader-facing sentence (letter's audience markers and the Jeremiah 31:31–34 covenant), "belongs with the first" changed to "is read here within the first" (interpretive reading, not a book-level assignment), "controlling framework" replaced. No withdrawn doctrinal wording found. pdffonts confirms Roboto only. Previews 2, 3 and 5 re-rendered; site.js and page text updated.

diff --git a/controlling-documents/Digital_Studies_PAM_Audit_v1.184.md b/controlling-documents/Digital_Studies_PAM_Audit_v1.184.md
@@ -413,3 +413,4 @@ Study 15 PDF not yet supplied. Typography: none of Studies 2, 3, 6, 8 is in EB G
 - v1.181 (2026-10-03): Study 65 rebuilt in Roboto at 10 pt, 17 pages (see Retrofit Plan v1.87).
 - v1.182 (2026-10-03): Study 65 corrected to Roboto, 16 pages (see Retrofit Plan v1.88).
 - v1.183 (2026-10-03): Study 66 rebuilt in Roboto at 10 pt, 16 pages (see Retrofit Plan v1.89).
+- v1.184 (2026-10-03): Study 67 rebuilt in Roboto at 10 pt, 17 pages (see Retrofit Plan v1.90).
